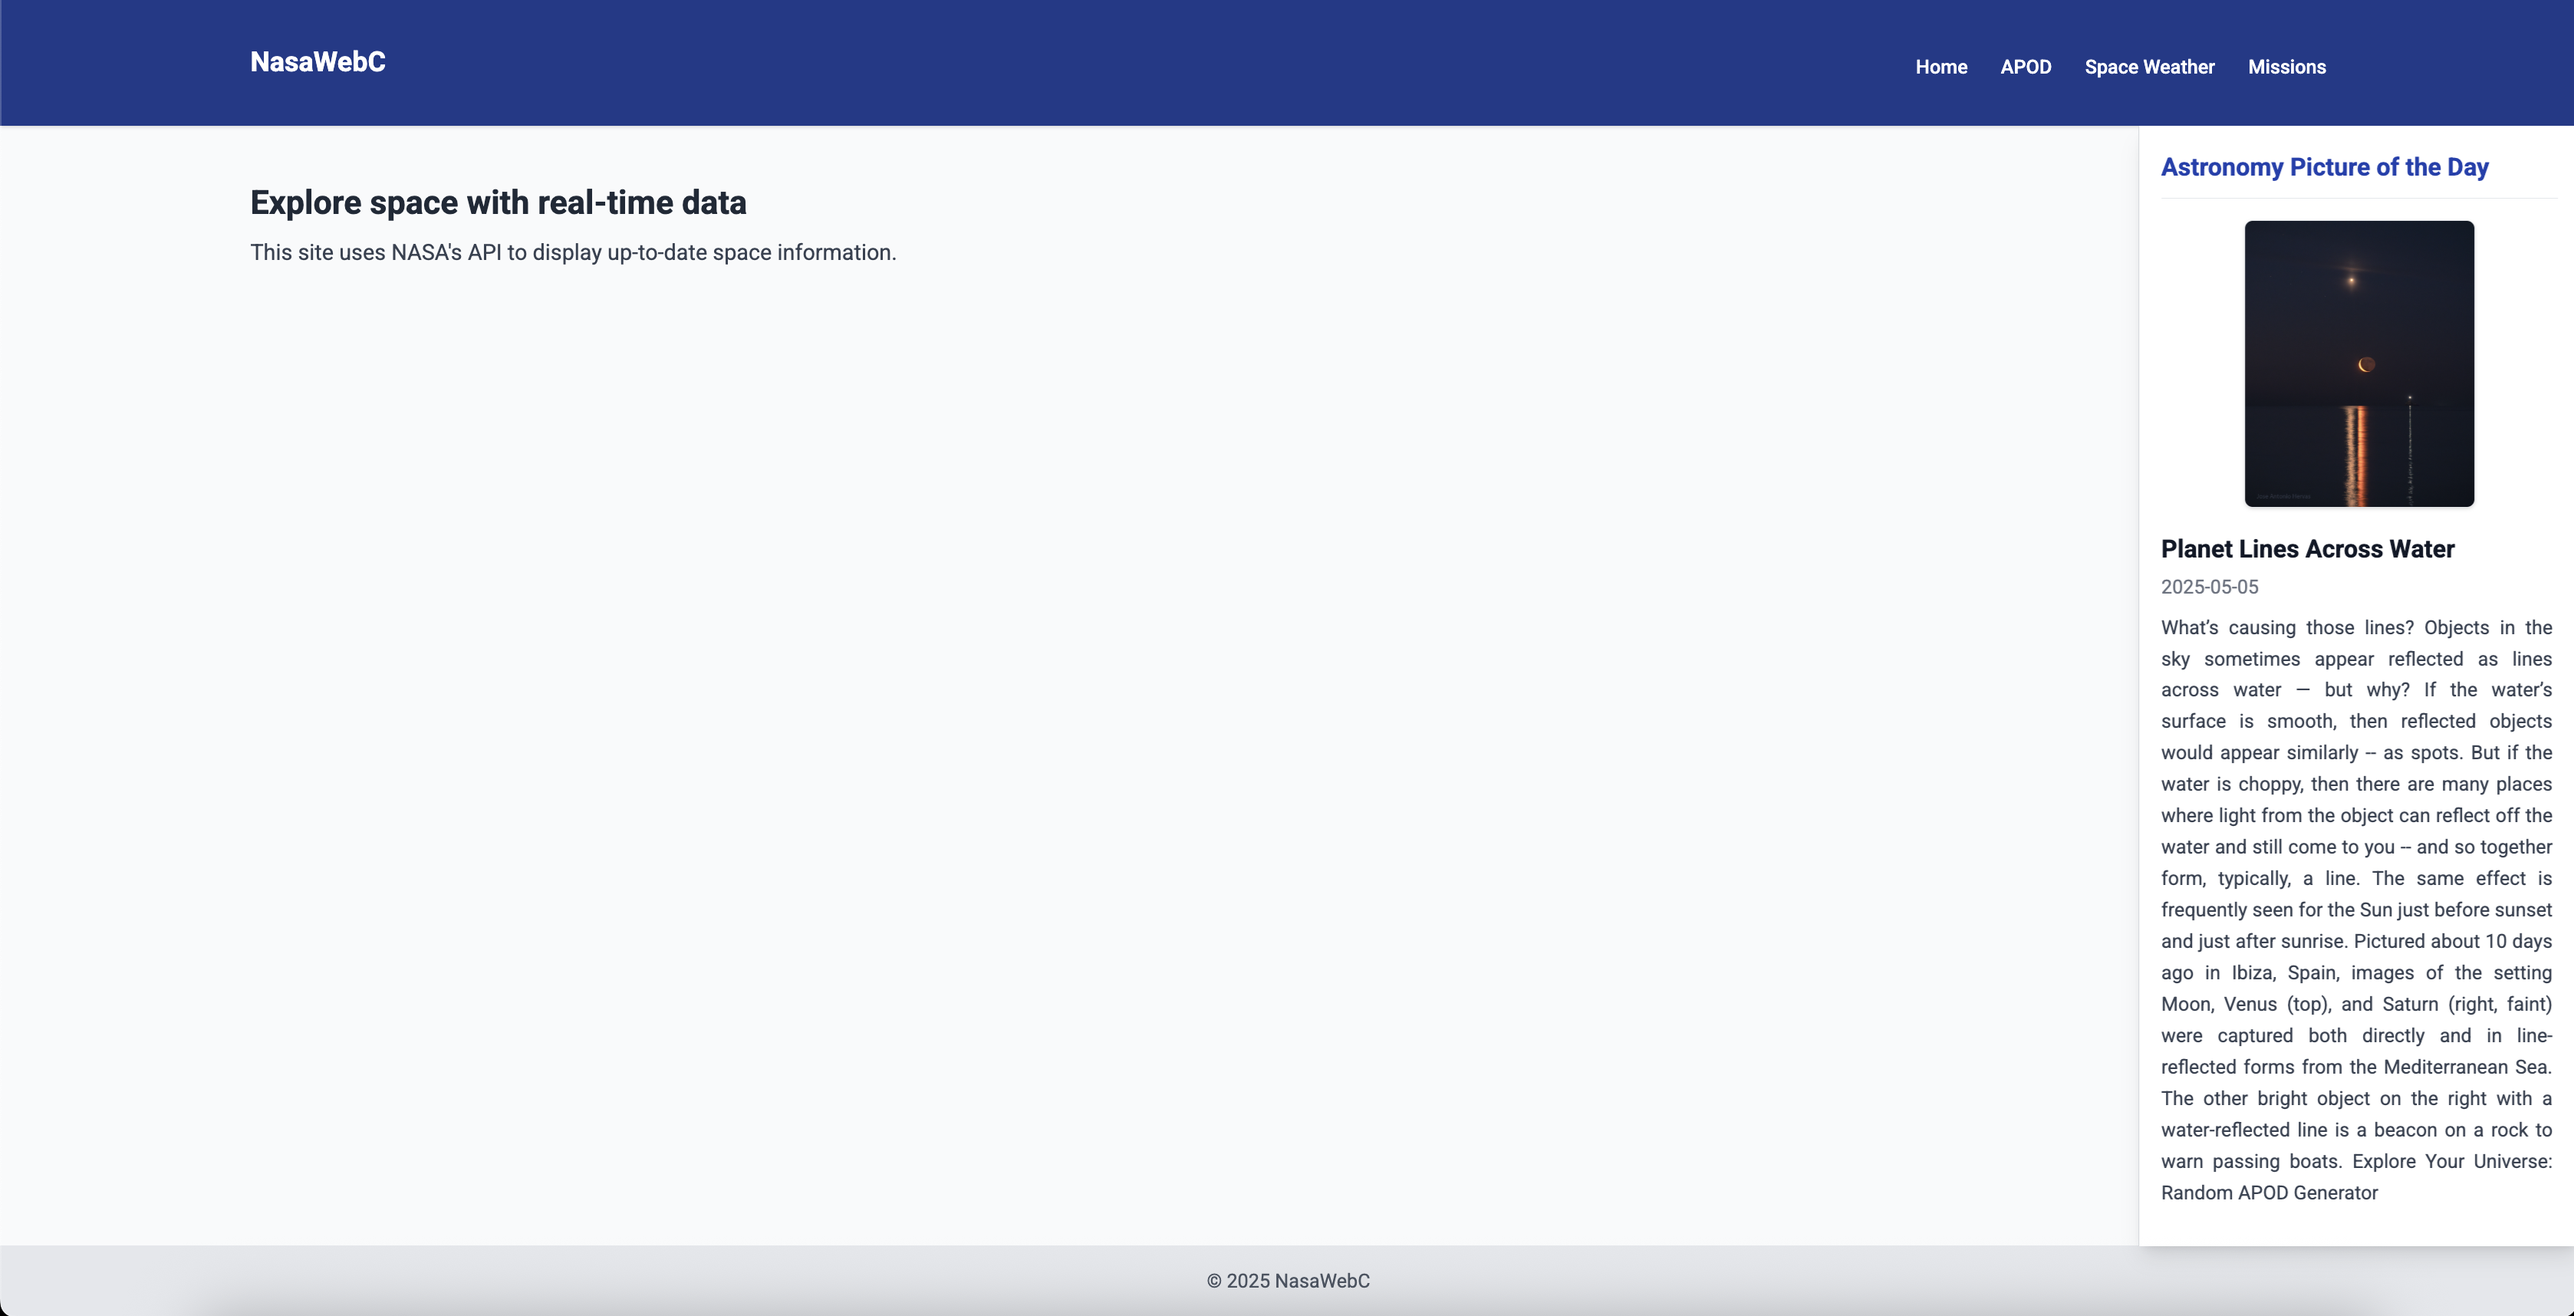
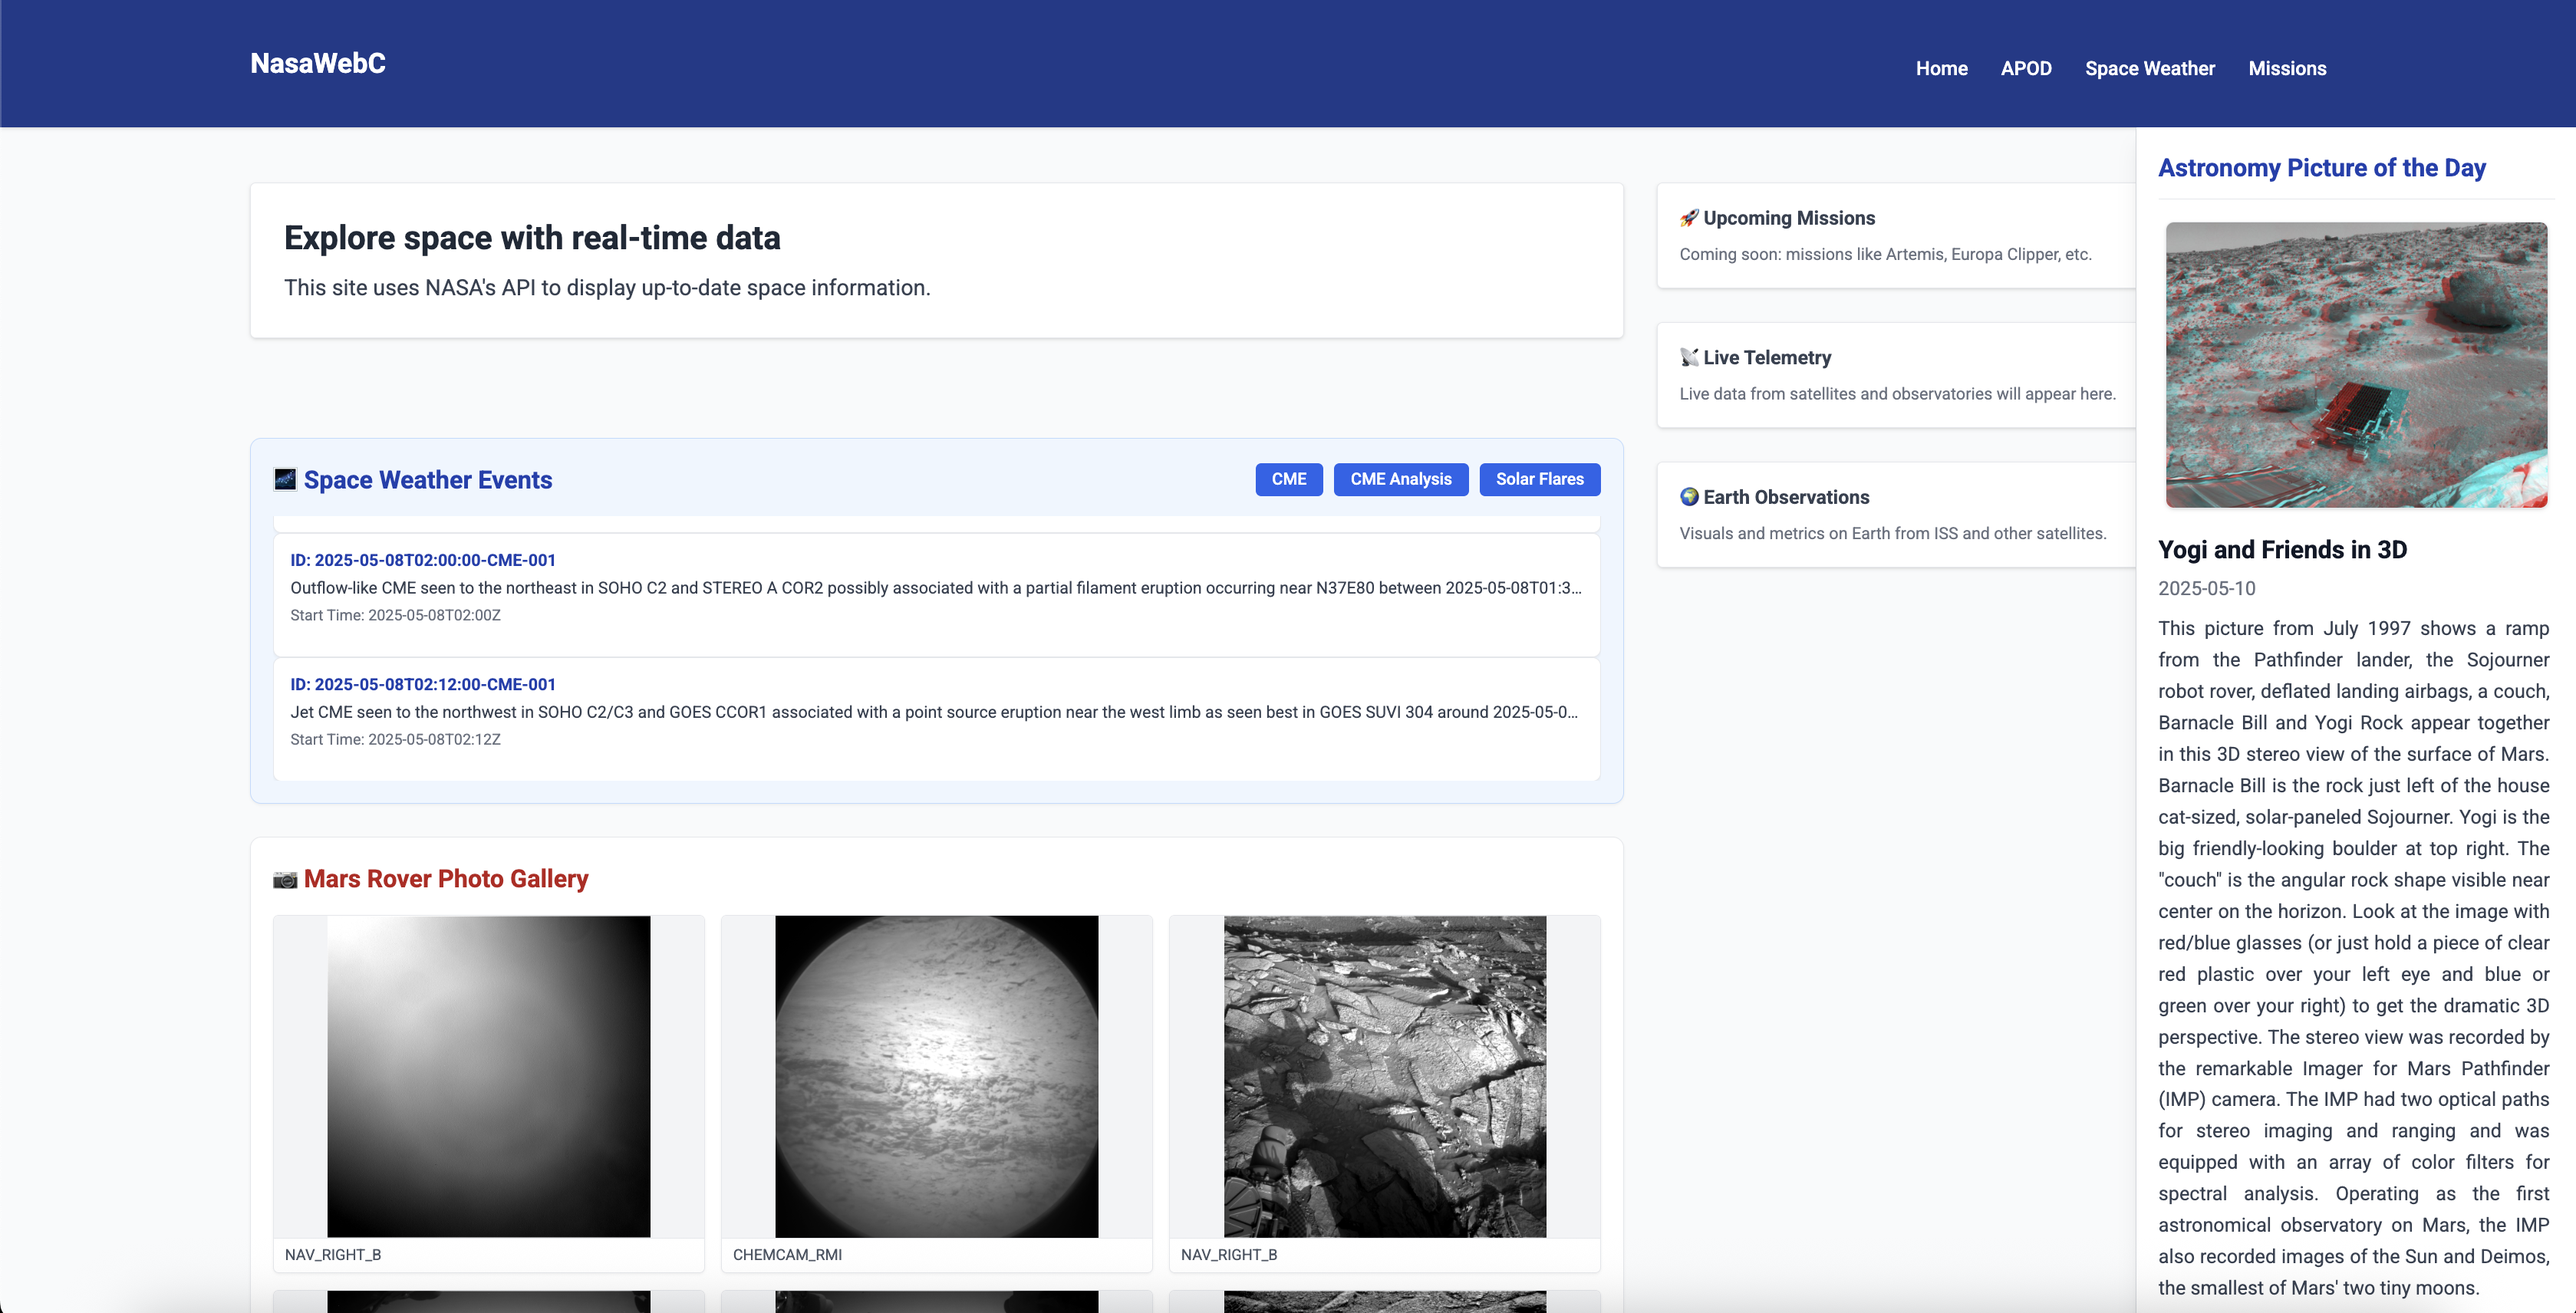
Update: README

diff --git a/README.md b/README.md
@@ -1,91 +1,94 @@
 # NasaWebC 🚀
 
-**NasaWebC** is a lightweight web project written entirely in **C**, designed to consume NASA's public APIs—especially the *Astronomy Picture of the Day (APOD)*. It serves as a practical example of how to build a functional API-driven web server in C using modern libraries.
-
----
+**NasaWebC** is a lightweight web project written entirely in **C**, designed to consume NASA's public APIs—especially *Astronomy Picture of the Day (APOD)* and *Mars Rover Photos*. It serves as a practical example of how to build an API-driven web server in C using modern libraries and a clean frontend interface.
 
 ## 🛠 Tech Stack
 
 - **C** (core backend logic)
-- [`libcurl`](https://curl.se/libcurl/) for making HTTP requests to the NASA API
+- [`libcurl`](https://curl.se/libcurl/) for HTTP requests
 - [`cJSON`](https://github.com/DaveGamble/cJSON) for JSON parsing
 - [`Mongoose`](https://github.com/cesanta/mongoose) for the embedded HTTP server
-- **HTML + Tailwind CSS + Vanilla JS** for the frontend interface
+- [`Stylus`](https://stylus-lang.com/) for CSS preprocessing
+- **HTML + Vanilla JS** for the frontend
+- **Daily local cache** mechanism to reduce API requests
 
----
 
 ## 📁 Project Structure
 
-```
+```zsh
 NasaWebC/
-├── include/          # Header files (.h)
-├── libs/             # External libraries: cJSON, mongoose
-├── public/           # Frontend: HTML, CSS, JS
-│   ├── css/
-│   ├── js/
-│   ├── components/   # Reusable layouts like header and footer
-│   └── index.html
-├── src/              # C source files (.c)
-├── .env              # Environment variables (e.g., NASA API key)
-├── Makefile
+├── include/            # Header files (.h)
+├── libs/               # External libraries (cJSON, mongoose)
+├── public/             # Static frontend
+│   ├── css/            # main.css (generated from Stylus)
+│   ├── stylus/         # main.styl (Stylus source)
+│   ├── js/             # Frontend scripts (main.js, ui.js)
+│   ├── components/     # Reusable layouts (header, footer)
+│   └── index.html      # Main landing page
+├── src/                # C source files
+│   ├── server.c        # Routing and response handling
+│   ├── nasa_api.c      # NASA API calls
+│   ├── cache_utils.c   # Timestamp and caching helpers
+│   └── main.c          # Entry point
+├── cache/              # Local cache files (JSON + timestamps)
+├── .env                # Environment variables (NASA API key)
+├── Makefile            # Build instructions
 └── README.md
 ```
 
----
-
 ## ⚙ Build & Run
 
-Make sure you have `gcc`, `make`, and `cmake` installed. Then:
+Make sure you have `gcc`, `make`, and `stylus` installed. Then:
 
-```bash
-gmake
-./nasa_server
+```zsh
+npm install -g stylus      # One-time installation
+make                       # Compiles C and generates CSS
+./nasa_server              # Runs the HTTP server
 ```
 
-The server will start on [http://localhost:8080](http://localhost:8080)
-
----
+Then open http://localhost:8080 in your browser.
 
 ## 🔐 Environment Setup
 
-You need a `.env` file in the root directory with your NASA API key:
+Create a .env file in the root directory:
 
-```env
+```zsh
 API_KEY=your_nasa_api_key_here
 ```
 
-Get your key from: https://api.nasa.gov
+You can get a free key at: https://api.nasa.gov
 
----
+🌐 Features
 
-## 🌐 Features
+	✅ Astronomy Picture of the Day (APOD) with image, title, and explanation
+	✅ Sidebar component with dynamic APOD content
+	✅ DONKI Space Weather Events:
+		CME
+	    CME Analysis
+	    Solar Flares
+	    Smooth carousel with auto-scroll
+	✅ Mars Rover Photos:
+	    Shows 30 unique photos from the last 30 days
+		Paged navigation (6 per page)
+	    Filters out duplicates and loads from multiple Earth dates
+	✅ Fully responsive layout using Tailwind-like utility classes
+	✅ Stylus used for styling, compiled via make
 
-- Displays Astronomy Picture of the Day (APOD)
-- Responsive UI with Tailwind CSS
-- Sidebar with dynamic content from NASA
-- Expandable image modal on click
-- Component-based layout with header and footer injection
-
----
-
-## 📸 Screenshot
+## 🖼 Screenshots
 
 ![Preview](resources/screenshot.png)
 
----
+## 🧠 Upcoming Improvements
+	•	Support additional endpoints (e.g., EPIC, NEO, Insight Weather)
+	•	Server-side logging and error diagnostics
+	•	Settings panel for customizing time range and filters
+	•	Image zoom, camera filters for Mars Rover gallery
+	•	Optional dark mode (Stylus variant)
 
 ## 📄 License
 
-MIT License
+This project is licensed under the MIT License.
 
----
+Built with 💻 in C as a low-level web experiment, pushing the limits of what’s possible with raw APIs and embedded servers.
 
-## 🚧 Future Improvements
-
-- Add support for other NASA endpoints (e.g., Mars Rover, EPIC)
-- Improve error handling
-- Integrate image caching and logging
-
----
-
-> Built with 💻 in C as a low-level web architecture experiment.
+Let me know if you'd like the `.styl` code or header/footer templates added as well!
